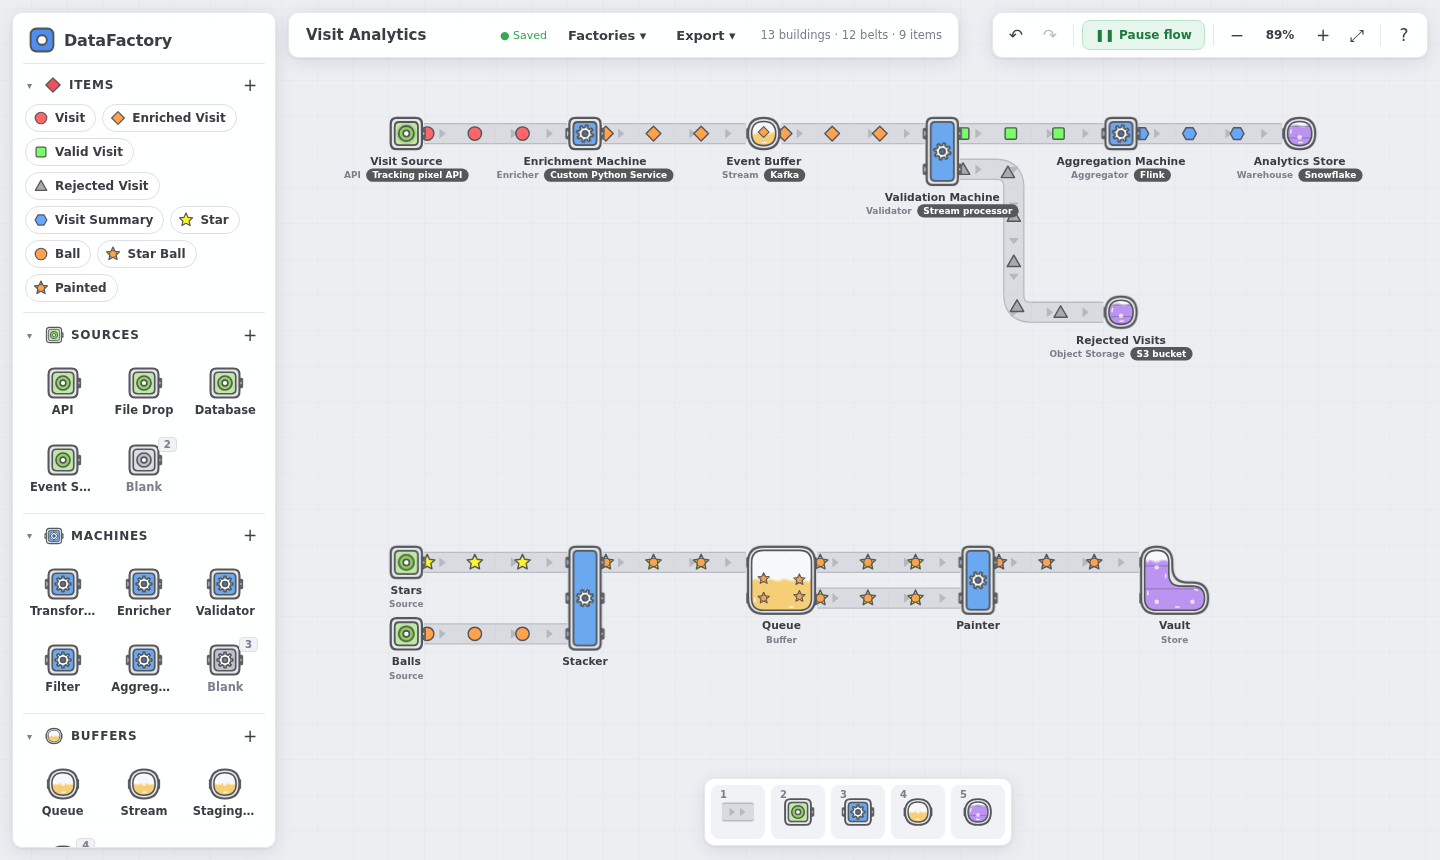
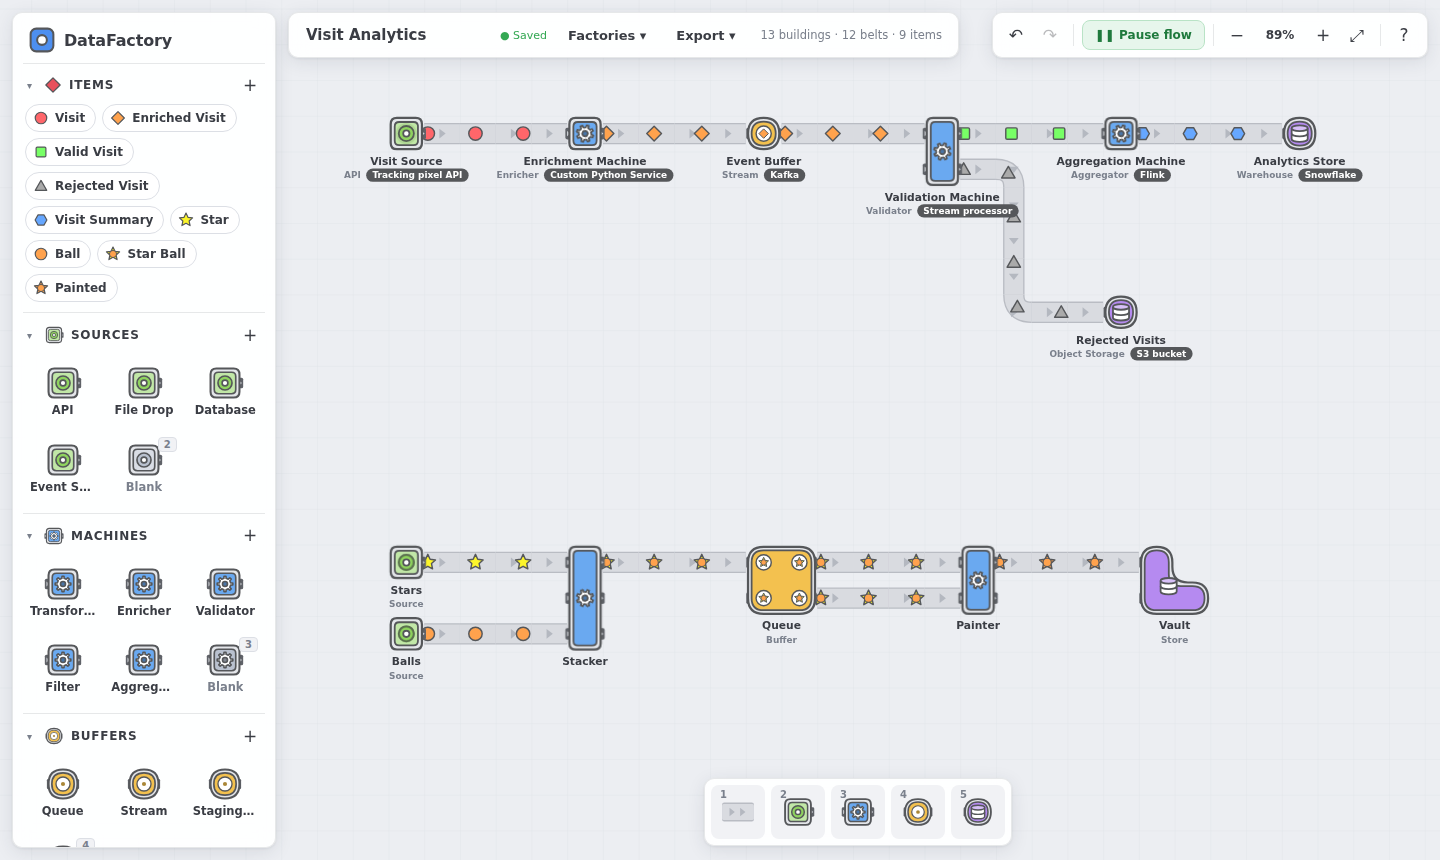
Draw tanks as solid shapes, without liquid
Buffers and stores keep the rounded tank silhouette but drop the
liquid, waves, bobbing, glass and hoops: buffers show queued items in
a round window per block, stores carry the storage symbol.

Claude-Session: https://claude.ai/code/session_0197dJSN28x8urR3fRy3ZEtr

diff --git a/src/components/BuildingArt.tsx b/src/components/BuildingArt.tsx
@@ -122,60 +122,38 @@ export const BuildingArt = memo(function BuildingArt({ kind, cells, rotation = 0
   );
 });
 
-/** Liquid levels: buffers hold items for a while, stores keep them. */
-const TANK_LEVEL = { buffer: 0.5, store: 0.82 } as const;
-const WAVE = 16;
-
 /**
- * Buffers and stores are drawn as tanks rather than machines: a pill-shaped
- * vessel with a glass wall and liquid that settles at the bottom whichever way
- * the tank faces. Buffers are half full with items bobbing at the surface;
- * stores are nearly full, hooped like a silo, with items settled inside.
+ * Buffers and stores are drawn as tanks rather than machines: a fully rounded
+ * vessel (one block is round, a row is a capsule). Buffers show their queued
+ * items through round windows, one per block; stores carry the storage symbol.
  */
 function Tank({ kind, cells, color, queue }: { kind: 'buffer' | 'store'; cells: Pt[]; color: string; queue: ItemType[] }) {
   const round = CELL / 2;
-  const glass = outlinePath(cells, 6.5, round - 6.5);
-  const minX = Math.min(...cells.map((c) => c.x)) * CELL;
-  const minY = Math.min(...cells.map((c) => c.y)) * CELL;
-  const maxX = (Math.max(...cells.map((c) => c.x)) + 1) * CELL;
-  const maxY = (Math.max(...cells.map((c) => c.y)) + 1) * CELL;
-  const top = maxY - 6.5 - (maxY - minY - 13) * TANK_LEVEL[kind];
-  // A gently scrolling wave along the liquid's surface.
-  let wave = `M ${minX - WAVE * 2} ${top}`;
-  for (let x = minX - WAVE * 2; x < maxX + WAVE; x += WAVE) wave += ` q ${WAVE / 4} -2.2 ${WAVE / 2} 0 t ${WAVE / 2} 0`;
-  wave += ` V ${maxY + 2} H ${minX - WAVE * 2} Z`;
-  const clipId = `tank-${kind}-${cells.map((c) => `${c.x}_${c.y}`).join('-')}`.replace(/[^\w-]/g, 'm');
-  const liquid = kind === 'store' ? color : shade(color, 0.15);
-  const items = cells.slice(0, 8).map((c, i) => ({ c: cellCenter(c.x, c.y), item: queue.length ? queue[i % queue.length] : null }));
-
+  const dark = shade(color, -0.3);
+  const light = shade(color, 0.45);
+  const sym = symbolPoint(cells);
   return (
     <g className={`tank tank-${kind}`}>
       <path className="plate" d={outlinePath(cells, 2.5, round - 2.5)} fillRule="evenodd" />
-      <clipPath id={clipId}>
-        <path d={glass} fillRule="evenodd" />
-      </clipPath>
-      <path className="tank-glass" d={glass} fillRule="evenodd" />
-      <g clipPath={`url(#${clipId})`}>
-        <path className="tank-liquid wave" d={wave} fill={liquid} />
-        <path className="tank-surface wave" d={wave.slice(0, wave.indexOf(' V '))} stroke={shade(color, 0.5)} />
-        {kind === 'store' &&
-          // Silo hoops across the tank.
-          [0.3, 0.62].map((f) => (
-            <line key={f} className="tank-hoop" x1={minX} x2={maxX} y1={minY + (maxY - minY) * f} y2={minY + (maxY - minY) * f} />
-          ))}
-        {items.map(({ c, item }, i) => (
-          <g
-            key={i}
-            className={kind === 'buffer' ? 'bob' : undefined}
-            style={kind === 'buffer' ? { animationDelay: `${(i % 3) * 0.4}s` } : undefined}
-            transform={`translate(${c.x} ${kind === 'buffer' ? Math.max(c.y, top) : Math.max(c.y + 4, top + 7)})`}
-          >
-            {item ? <LayeredGlyph layers={lookOf(item)} r={5.5} strokeWidth={1.2} /> : <circle className="tank-bubble" r={2.5} />}
-          </g>
-        ))}
-      </g>
-      <path className="tank-rim" d={glass} fillRule="evenodd" />
-      <path className="tank-shine" d={outlinePath(cells, 10, round - 10)} fillRule="evenodd" />
+      <path className="body" d={outlinePath(cells, 6.5, round - 6.5)} fillRule="evenodd" fill={color} />
+      {kind === 'buffer' &&
+        cells.slice(0, 12).map((c, i) => {
+          const p = cellCenter(c.x, c.y);
+          const item = queue.length ? queue[i % queue.length] : null;
+          return (
+            <g key={i} transform={`translate(${p.x} ${p.y})`}>
+              <circle className="tank-window" r={8.5} />
+              {item ? <LayeredGlyph layers={lookOf(item)} r={4.8} strokeWidth={1.1} /> : <circle r={2.5} fill={dark} />}
+            </g>
+          );
+        })}
+      {kind === 'store' && (
+        <g className="body" fill="#fff" transform={`translate(${sym.x} ${sym.y})`}>
+          <path d="M -9 -6 L -9 6 A 9 3.2 0 0 0 9 6 L 9 -6" />
+          <path d="M -9 0 A 9 3.2 0 0 0 9 0" fill="none" />
+          <ellipse cx={0} cy={-6} rx={9} ry={3.2} fill={light} />
+        </g>
+      )}
     </g>
   );
 }

diff --git a/src/styles.css b/src/styles.css
@@ -1696,74 +1696,8 @@ select:focus {
 
 /* ---------- tanks (buffers and stores) ---------- */
 
-.tank-glass {
-  fill: #f6f8fb;
-}
-
-.tank-rim {
-  fill: none;
-  stroke: var(--ink);
-  stroke-width: 1.8;
-}
-
-.tank-liquid {
-  opacity: 0.92;
-}
-
-.tank-surface {
-  fill: none;
-  stroke-width: 1.6;
-}
-
-.tank-hoop {
-  stroke: var(--ink);
-  stroke-width: 1.4;
-  opacity: 0.35;
-}
-
-.tank-shine {
-  fill: none;
-  stroke: #fff;
-  stroke-width: 1.6;
-  stroke-dasharray: 5 40;
-  opacity: 0.8;
-  pointer-events: none;
-}
-
-.tank-bubble {
+.tank-window {
   fill: #fff;
-  opacity: 0.7;
-}
-
-.flowing .wave {
-  animation: wave 1.6s linear infinite;
-}
-
-.flowing .bob {
-  animation: bob 1.8s ease-in-out infinite;
-}
-
-.bob {
-  transform-box: fill-box;
-}
-
-.kind-icon.still .wave,
-.kind-icon.still .bob {
-  animation: none !important;
-}
-
-@keyframes wave {
-  to {
-    transform: translateX(16px);
-  }
-}
-
-@keyframes bob {
-  0%,
-  100% {
-    translate: 0 0;
-  }
-  50% {
-    translate: 0 -2px;
-  }
+  stroke: var(--ink);
+  stroke-width: 1.6;
 }

diff --git a/README.md b/README.md
@@ -39,9 +39,9 @@ rejected ones. Destroying a block that holds a shape together splits it into
 separate buildings. `R` rotates the whole shape. Buildings of different types
 placed directly in front of each other hand items over without a belt.
 
-Buffers and stores are drawn as **tanks**, not machines: rounded vessels with
-liquid inside. A buffer is half full, with its queued items bobbing at the
-surface. A store is nearly full and hooped like a silo, because data stays there.
+Buffers and stores are drawn as **tanks**, not machines: fully rounded vessels
+(one block is round, a row is a capsule). Buffers show their queued items through
+a round window in each block. Stores carry the storage symbol.
 
 ### Combining item looks
 
